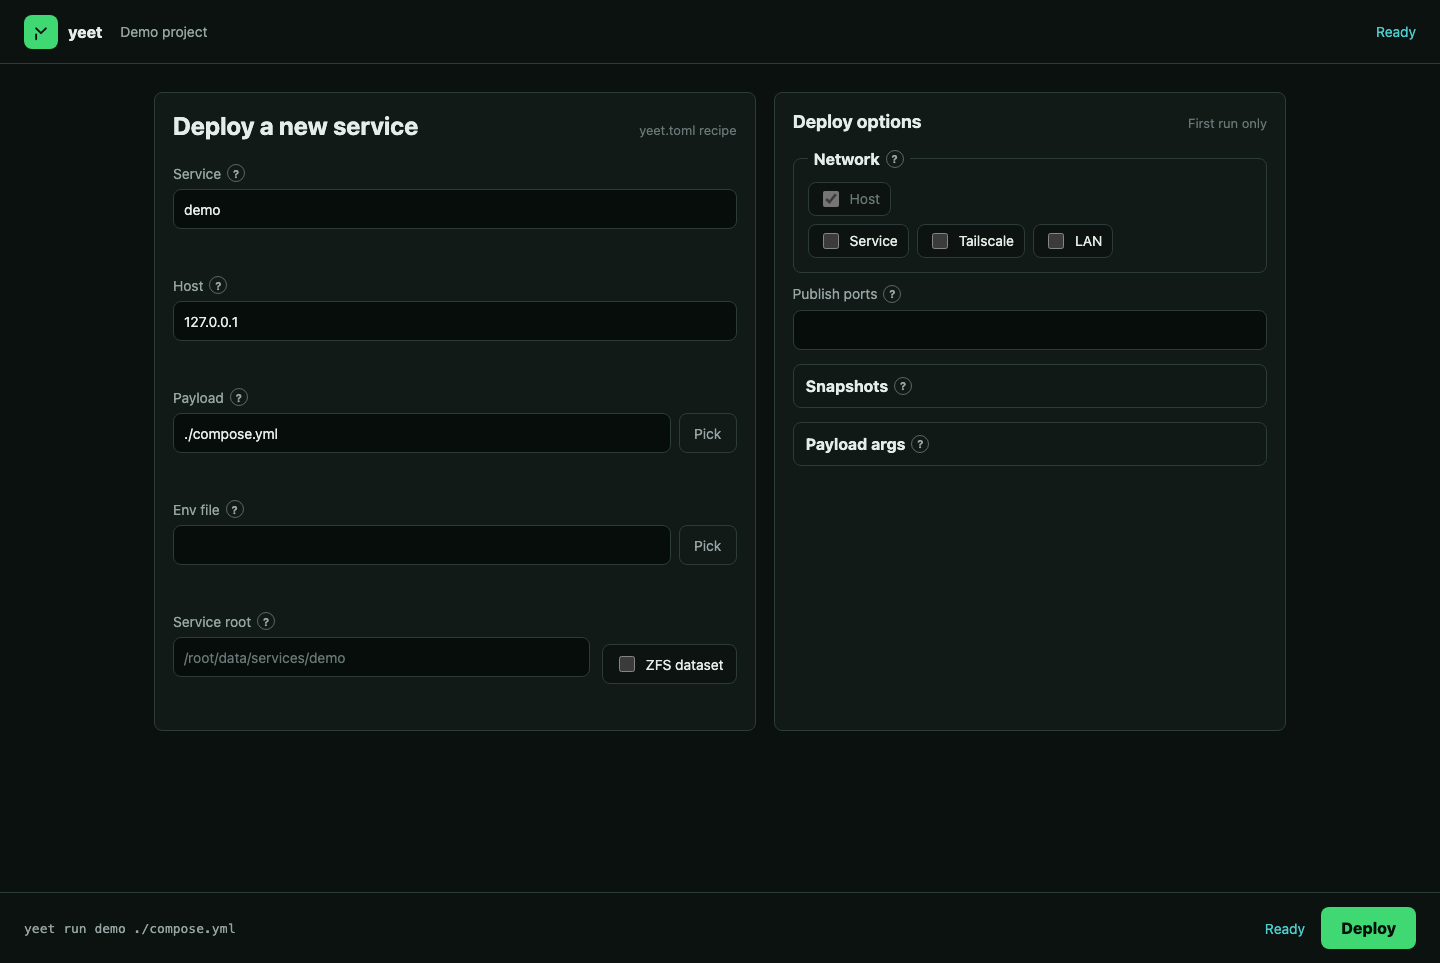
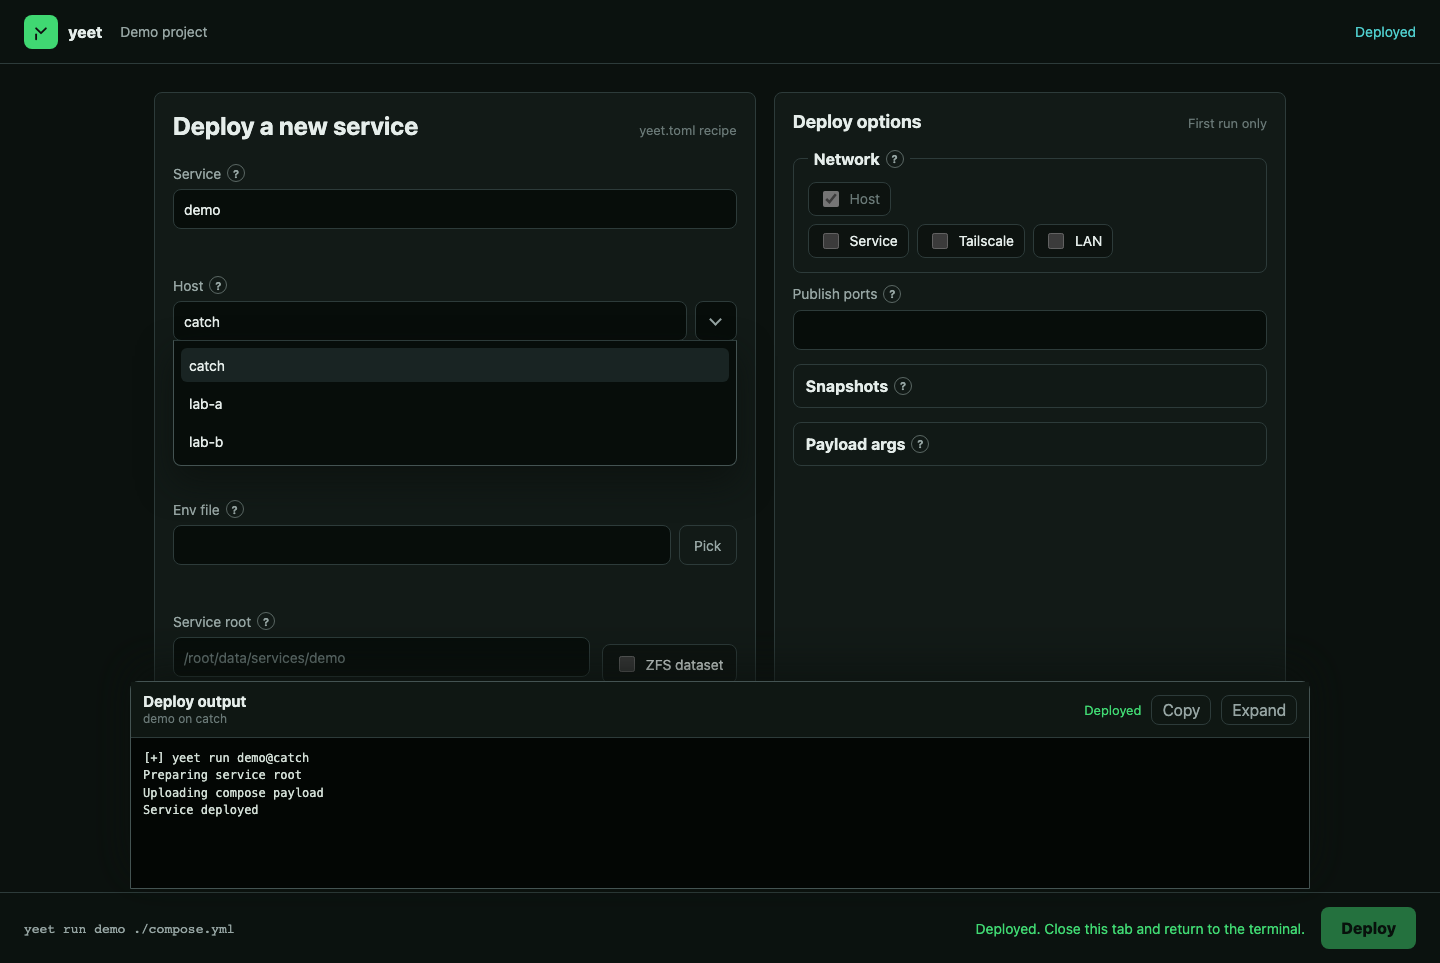
docs: show web deploy terminal output

diff --git a/src/pages/index.tsx b/src/pages/index.tsx
@@ -96,7 +96,8 @@ yeet run <svc> ./compose.yml --net=svc,ts`}</code>
               <P>
                 Use the CLI when you know the flags. Use{" "}
                 <code>yeet run --web</code> for a guided first deploy with the
-                same config saved to <code>yeet.toml</code>.
+                same config saved to <code>yeet.toml</code> and terminal output
+                mirrored in the browser.
               </P>
               <pre className={s.deployCode}>
                 <code>{`yeet run --web